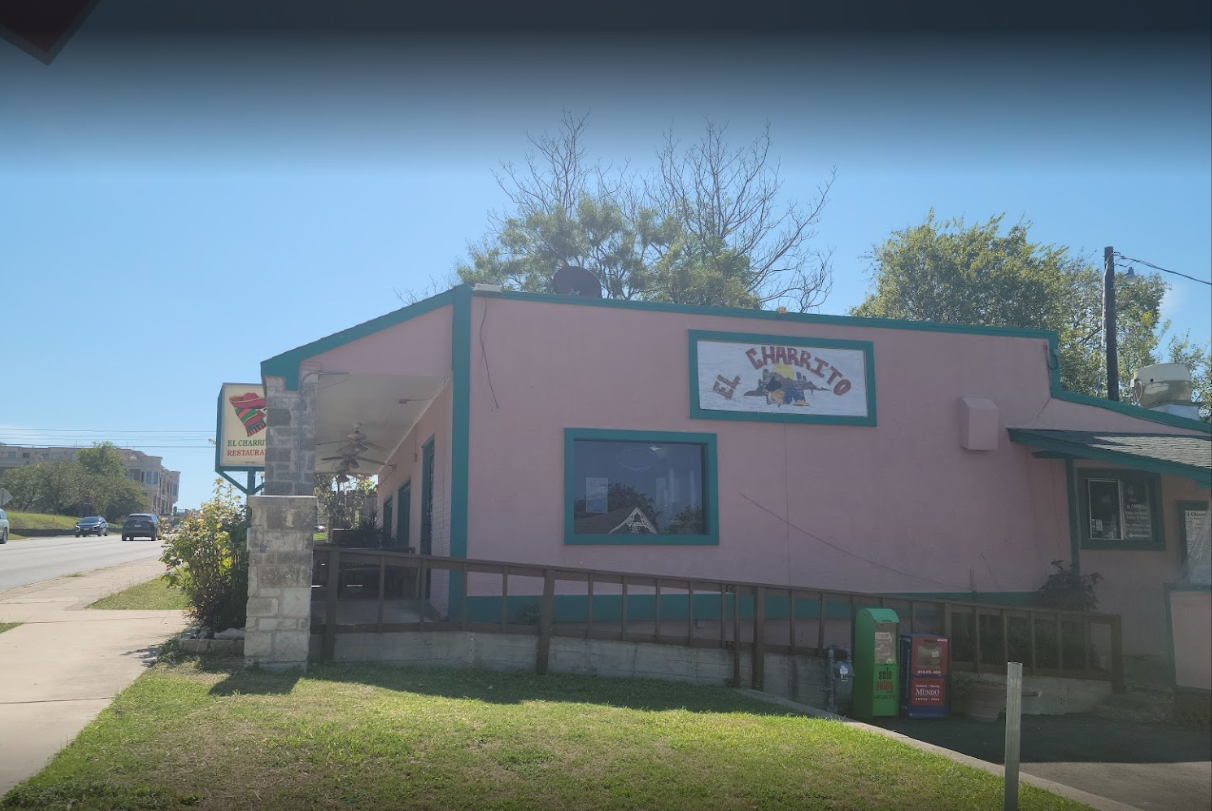
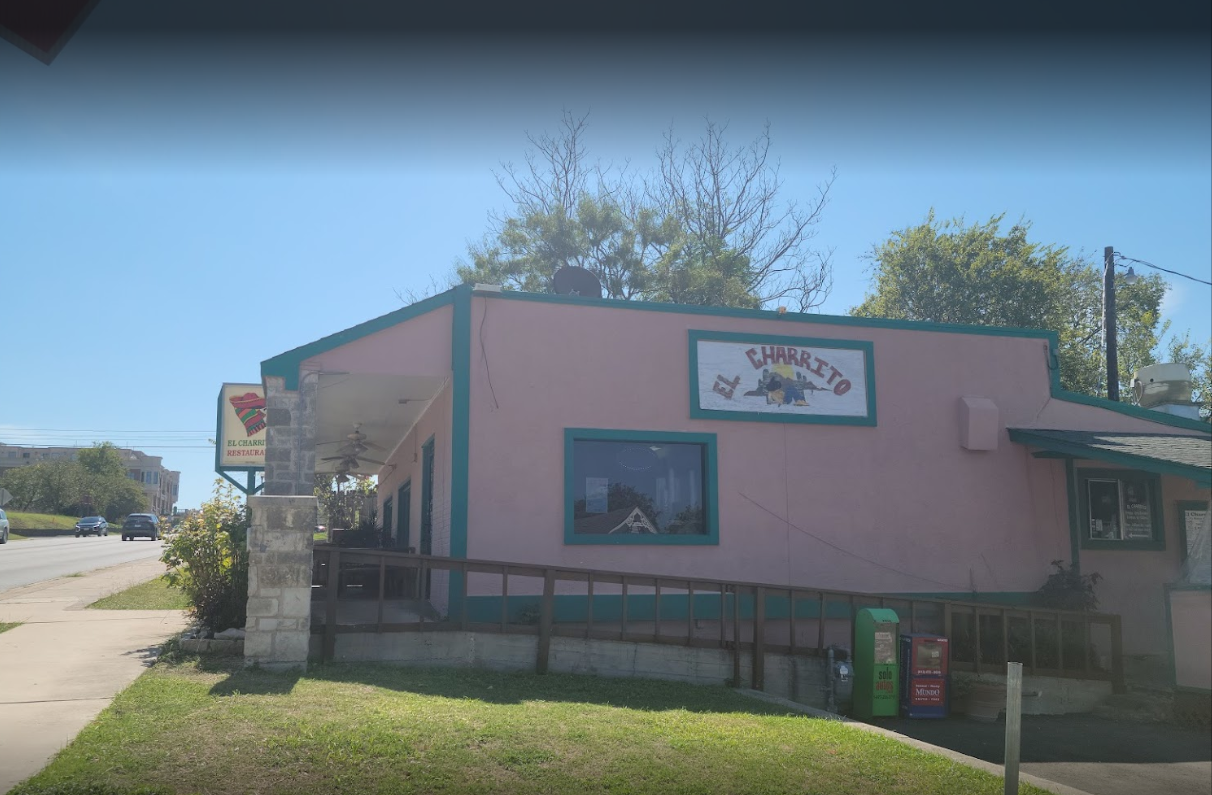
resizing images and carosel

diff --git a/index.html b/index.html
@@ -38,7 +38,7 @@
   <div id="carouselExampleFade" class="carousel slide carousel-fade" data-bs-ride="carousel">
     <div class="carousel-inner">
       <div class="carousel-item active" data-bs-interval="10000">
-        <img src="/images/outside1.png" class="d-block w-100" alt="outside1">
+        <img src="/images/outside3.png" class="d-block w-100" alt="outside1">
       </div>
       <div class="carousel-item" data-bs-interval="10000">
         <img src="/images/outside2.png" class="d-block w-100" alt="outside2">

diff --git a/assets/CSS/stylesheet.css b/assets/CSS/stylesheet.css
@@ -88,11 +88,12 @@ border-color: var(--tealaccent); */
 }
 
 /* landing page carousel sizing and position */
-/* .carousel{
-  width: 98%;
+.carousel{
+  width: 40%;
+  height: auto;
  margin-left: auto;
  margin-right: auto;
-} */
+}
 
 /* carousel item sizing */
 /* .carousel-item{
